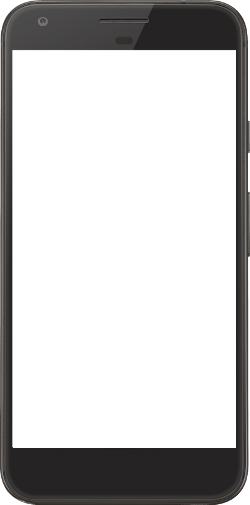
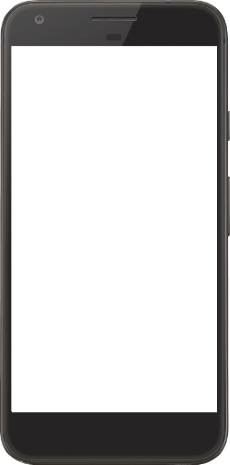
Added a bunch of content.

Changed region(s): [[0.9435, 0.0602, 1.0, 0.8731], [0.9739, 0.9333, 1.0, 0.9634], [0.8826, 0.9935, 0.913, 1.0]]

diff --git a/ping-servers/index_contents.html b/ping-servers/index_contents.html
@@ -3,7 +3,7 @@
 		<img class="img-responsive" alt="Ping Servers Graphic" src="/assets/img/ping-servers/feature_graphic.png">
 	</div>
 	<div class="title">
-		<h1>Ping Servers </h1>
+		<h1>Ping Servers</h1>
 	</div>
 	<div class="subtitle">
 		<h4>Receive instant notifications when websites or servers are unreachable</h4>
@@ -12,14 +12,14 @@
 		<img class="img-responsive" alt="Ping Servers Icon" src="/assets/img/ping-servers/icon.png">
 	</div>
 	<div class="links">
-		<a href="https://play.google.com/store/apps/details?id=com.play2think.ping-servers">Download now</a>
+		<a target="_blank" href="https://play.google.com/store/apps/details?id=com.brohkahn.pingserver"><h4>Download now</h4></a>
 	</div>
 </div>
 
 <div id="description">
 	<div class="row description-group">
 		<div class="col-sm-8 col-sm-offset-2">
-			<p>Ping Server is a mobile application that periodically "pings" servers to determine whether they are reachable by your device. Whenever a ping fails, you will be notified instantly on your device so you can act upon the situation as you see fit! Forget worrying about whether your site is online, just set up a ping on Ping Server and let your Android device do your worrying for you.</p>
+			<p>Ping Servers is a mobile application that periodically "pings" servers to determine whether they are reachable by your device. Whenever a ping fails, you will be notified instantly on your device so you can act upon the situation as you see fit! Forget worrying about whether your site is online, just set up a ping on Ping Server and let your Android device do your worrying for you.</p>
 		</div>
 	</div>
 	<div class="row description-group">
@@ -29,13 +29,48 @@
 			</div>
 		</div>
 		<div class="col-sm-8">
+			<h2>SCHEDULES</h2>
+			<p>Choose between a variety of settings to use for pinging your servers. Using Android's built in scheduler, Ping Servers can automatically query your servers whenever the device wakes up after the provided ping interval. If your device is on a later version of Android (6.0+), you can tell Ping Servers to "use strict alarms", which will turn off battery optimazion for the applciation and force the device to wake up and check your servers at the frequency of your choosing. You can also disable Ping Servers at certains times of the day, so you can prevent your phone from blaring at work or while you're sleeping.</p>
+		</div>
+	</div>
+
+	<div class="row description-group">
+		<div class="col-sm-8">
+			<h2>PING FUNCTIONALITY</h2>
+			<p>We have implemented 2 differents methods of making sure your servers are up and running: <i>URL.openConnection()</i> and <i>InetAddress.getByName()</i>. Ping Servers requires both of these functions to succeed, or the ping will fail. If a ping fails, the service will automatically retry the ping after a given interval. By default, the service will run 3 retries at intervals of 1 second. If the app if unable to ping any of your servers after the given number of retires, you will instantly get a notification. </p>
+		</div>
+		<div class="col-sm-4">
+			<div class="android-mobile-screenshot screenshot">
+				<img src="/assets/img/ping-servers/screenshots/2.jpg" alt="Screenshot 2">
+			</div>
+		</div>
+	</div>
+
+	<div class="row description-group">
+		<div class="col-sm-4">
+			<div class="android-mobile-screenshot screenshot">
+				<img src="/assets/img/ping-servers/screenshots/3.jpg" alt="Screenshot 3">
+			</div>
+		</div>
+		<div class="col-sm-8">
 			<h2>OPTIONS</h2>
 			<p>Every one of Omega's features/elements is completely optional and can be modified to your liking, here is what you can do to each element individually</p>
 			<ul>
 				<li>Server timeout in seconds</li>
-				<li>Ping frequency in minutes (note: this is not 100% accurate as different devices monitor background activities in their own manner, sometimes delaying background executions. If your ping schedule is not accurate according to the frequency you selected, change the frequency by about 20%.)</li>
+				<li>Ping frequency in minutes
+					<ul>
+						<li>This is not 100% accurate as different devices monitor background activities in their own manner, sometimes delaying background executions</li>
+						<li>If your ping schedule is not accurate according to the frequency you selected, change the frequency by about 20%</li>
+					</ul>
+				</li>
 				<li>Retries before failure notification</li>
 				<li>Delay before each retry (in seconds) if server is reachable</li>
+				<li>Ability to notify of subsequent failures
+					<ul>
+						<li>Ping Servers will only send you one notification per fail event</li>
+						<li>If a server continues to stay down, Ping Servers will not notify you</li>
+					</ul>
+				</li>
 			</ul>
 		</div>
 	</div>
@@ -49,9 +84,9 @@
 </div>
 
 <div class="links" id="bottom-links">
-	<h4>Download RSS Wallpaper for free (Android)</h4>
+	<h4>Download Ping Servers for free (Android)</h4>
 	<div class="badge-container">
-		<a target="_blank" href="https://play.google.com/store/apps/details?id=com.brohkahn.rsswallpaper">
+		<a target="_blank" href="https://play.google.com/store/apps/details?id=com.brohkahn.pingserver">
 			<img alt="Get it on Google Play" src="/assets/img/en_generic_rgb_wo_45.png" />
 		</a>
 

diff --git a/prezcon/index_contents.html b/prezcon/index_contents.html
@@ -12,12 +12,56 @@
 		<img class="img-responsive" alt="Prezcon Icon" src="/assets/img/prezcon/icon.png">
 	</div>
 	<div class="links">
-		<a href="https://play.google.com/store/apps/details?id=com.prezcon.prezcon">Download now</a>
+		<a href="https://play.google.com/store/apps/details?id=com.prezcon.prezcon"><h4>Download now</h4></a>
 	</div>
 </div>
 
 <div id="description">
 
+	<div class="row description-group">
+		<div class="col-sm-4">
+			<div class="android-mobile-screenshot screenshot">
+				<img src="/assets/img/prezcon/screenshots/2.png" alt="Screenshot 2">
+			</div>
+		</div>
+		<div class="col-sm-8">
+			<h2>PERSONAL SCHEDULE</h2>
+			<p>Use the Prezcon app to star events and save them to your personal schedule. In the “Starred” view, you can view your entire personal schedule on a day by day basis. In the full “Schedule” view, you can view your started schedule along with the entire Prezcon schedule, however your events will appear under each hour of the convention they fall into. By collapsing the event list for each hour, the headers will display your schedule on an hourly basis.</p>
+		</div>
+	</div>
+	<div class="row description-group">
+		<div class="col-sm-8">
+			<h2>CUSTOM EVENTS</h2>
+			<p>Create your own events add to your schedule. Just add a name, time, location, and which days of the convention your event will occur. You can also use the schedule sharing feature to export your custom events, along with your full personal schedule, and share them with your friends, coworkers, or other devices.</p>
+		</div>
+		<div class="col-sm-4">
+			<div class="android-mobile-screenshot screenshot">
+				<img src="/assets/img/prezcon/screenshots/1.png" alt="Screenshot 1">
+			</div>
+		</div>
+	</div>
+	<div class="row description-group">
+		<div class="col-sm-4">
+			<div class="android-mobile-screenshot screenshot">
+				<img src="/assets/img/prezcon/screenshots/4.png" alt="Screenshot 4">
+			</div>
+		</div>
+		<div class="col-sm-8">
+			<h2>NOTIFICATIONS</h2>
+			<p>The Prezcon app will notify you when your starred events are about to start. By default, the notification interval is 5 minutes, which ought to be enough time to reach any room in the hotel. Those of you whose room is more of a walk need not fear, for the application allows you to set your own notification time to anything from minute to an hour.</p>
+		</div>
+	</div>
+	<div class="row description-group">
+		<div class="col-sm-8">
+			<h2>MAP</h2>
+			<p>Use the hotel map built into Prezcon to ensure your never get lost among the hysteria of the convention.  Prezcon has a large variety of events, so some events are in rooms so small their name does not fit in the map. But if you select an event from the schedule, the room for your event will flash on the map so you can see the events location and know where to go.</p>
+		</div>
+		<div class="col-sm-4">
+			<div class="android-mobile-screenshot screenshot">
+				<img src="/assets/img/prezcon/screenshots/3.png" alt="Screenshot 3">
+			</div>
+		</div>
+	</div>
 	<div class="row description-group">
 		<div class="col-sm-4">
 			<div class="android-mobile-screenshot screenshot">
@@ -31,7 +75,7 @@
 				<li>View entire Prezcon schedule by day and hour</li>
 				<li>View schedule of individual tournament</li>
 				<li>Find rooms on hotel map</li>
-				<li>Create personalized schedule for your week at the Prezcon Winter Nationals</li>
+				<li>Create personalized schedule for your week at Prezcon</li>
 				<li>Add events to your individual schedule</li>
 				<li>Filter tournaments and non-tournaments out of your schedule</li>
 				<li>Edit and view all your tournament finishes</li>
@@ -42,7 +86,7 @@
 </div>
 
 <div class="links" id="bottom-links">
-	<h4>Download WBC for free</h4>
+	<h4>Download Prezcon for free</h4>
 	<div class="badge-container">
 		<a target="_blank" href="https://play.google.com/store/apps/details?id=com.prezcon.prezcon">
 			<img alt="Get it on Google Play" src="/assets/img/en_generic_rgb_wo_45.png" />

diff --git a/wbc/index_contents.html b/wbc/index_contents.html
@@ -12,7 +12,7 @@
 		<img class="img-responsive" alt="WBC Icon" src="/assets/img/wbc/icon.png">
 	</div>
 	<div class="links">
-		<a href="https://play.google.com/store/apps/details?id=org.boardgamers.wbc">Download now</a>
+		<a href="https://play.google.com/store/apps/details?id=org.boardgamers.wbc"><h4>Download now</h4></a>
 	</div>
 </div>
 
@@ -20,6 +20,50 @@
 	<div class="row description-group">
 		<div class="col-sm-8 col-sm-offset-2">
 			<p class="indented">This is the official app of the World Boardgaming Championships, the largest event presented by the Boardgame Players Association (BPA). From August 3-9, 2015, join us at the Lancaster Host Resort in Lancaster, PA, USA for a week of various board game tournaments, auctions, and vending. Board gamers, players, collectors, and game enthusiasts of all ages and experience levels are welcome. Visit <a target="_blank" href="http://boardgamers.org/landing.shtml">the WBC web site</a> for more info.</p>
+		</div>
+	</div>
+	<div class="row description-group">
+		<div class="col-sm-4">
+			<div class="android-mobile-screenshot screenshot">
+				<img src="/assets/img/wbc/screenshots/2.png" alt="Screenshot 2">
+			</div>
+		</div>
+		<div class="col-sm-8">
+			<h2>PERSONAL SCHEDULE</h2>
+			<p>Use the WBC app to star events and save them to your personal schedule. In the “Starred” view, you can view your entire personal schedule on a day by day basis. In the full “Schedule” view, you can view your started schedule along with the entire WBC schedule, however your events will appear under each hour of the convention they fall into. By collapsing the event list for each hour, the headers will display your schedule on an hourly basis.</p>
+		</div>
+	</div>
+	<div class="row description-group">
+		<div class="col-sm-8">
+			<h2>CUSTOM EVENTS</h2>
+			<p>Create your own events add to your schedule. Just add a name, time, location, and which days of the convention your event will occur. You can also use the schedule sharing feature to export your custom events, along with your full personal schedule, and share them with your friends, coworkers, or other devices.</p>
+		</div>
+		<div class="col-sm-4">
+			<div class="android-mobile-screenshot screenshot">
+				<img src="/assets/img/wbc/screenshots/1.png" alt="Screenshot 1">
+			</div>
+		</div>
+	</div>
+	<div class="row description-group">
+		<div class="col-sm-4">
+			<div class="android-mobile-screenshot screenshot">
+				<img src="/assets/img/wbc/screenshots/4.png" alt="Screenshot 4">
+			</div>
+		</div>
+		<div class="col-sm-8">
+			<h2>NOTIFICATIONS</h2>
+			<p>The WBC app will notify you when your starred events are about to start. By default, the notification interval is 5 minutes, which ought to be enough time to reach any room in the hotel. Those of you whose room is more of a walk need not fear, for the application allows you to set your own notification time to anything from minute to an hour.</p>
+		</div>
+	</div>
+	<div class="row description-group">
+		<div class="col-sm-8">
+			<h2>MAP</h2>
+			<p>Use the hotel map built into WBC to ensure your never get lost among the hysteria of the convention.  WBC has a large variety of events, so some events are in rooms so small their name does not fit in the map. But if you select an event from the schedule, the room for your event will flash on the map so you can see the events location and know where to go.</p>
+		</div>
+		<div class="col-sm-4">
+			<div class="android-mobile-screenshot screenshot">
+				<img src="/assets/img/wbc/screenshots/3.png" alt="Screenshot 3">
+			</div>
 		</div>
 	</div>
 	<div class="row description-group">

diff --git a/assets/css/main.css b/assets/css/main.css
@@ -19,7 +19,7 @@
 */
 
 html {background: white}
-body {background: linear-gradient(#b6c3e2, #fff);}
+body {background-color: #edf0f8;}
 div, ul, li, a {box-sizing: border-box;}
 img {max-width: 100%;}
 
@@ -53,7 +53,8 @@ a:visited,
 a:link {font-family: verdana, sans-serif;}
 a,
 a:visited,
-a:link {color: #997c40;}
+a:link,
+a h4 {color: #997c40; font-weight: bold;}
 
 
 
@@ -111,7 +112,7 @@ p {line-height: 1.4em; margin-bottom: 1em}
 .navigation-links.fixed {position: fixed; top: 0; z-index: 12;}
 
 
-#headers {text-align: center; margin-top: 50px;}
+#headers {text-align: center; padding-top: 50px;}
 #headers #feature-graphic,
 #headers #feature-graphic img {width: 100%;}
 #headers .title {margin: 100px 0 15px;}
@@ -134,11 +135,11 @@ p {line-height: 1.4em; margin-bottom: 1em}
 #description .screenshot {margin: 0 auto;position: relative;}
 #description .screenshot img {position: absolute;}
 
-#description .screenshot.android-wear-screenshot {background: url("../img/android-wear-background.png"); width: 250px; height: 350px; }
-#description .screenshot.android-wear-screenshot img { width: 230px; height: 230px; top: 60px; left: 10px;}
+#description .screenshot.android-wear-screenshot {background-image:  url("../img/android-wear-background.png"); width: 230px; height: 322px; }
+#description .screenshot.android-wear-screenshot img { width: 210px; height: 210px; top: 57px; left: 10px;}
 
-#description .screenshot.android-mobile-screenshot {background: url("../img/android-pixel-background.png"); width: 250px; height: 505px; }
-#description .screenshot.android-mobile-screenshot img { width: 224px; height: 398px; top: 50px; left: 12px;}
+#description .screenshot.android-mobile-screenshot {background-image: url("../img/android-pixel-background.png"); width: 230px; height: 465px; }
+#description .screenshot.android-mobile-screenshot img { width: 206px; height: 367px; top: 46px; left: 11px;}
 
 
 #bottom-links {margin: 75px auto 50px; text-align: center;}

diff --git a/website/index_contents.html b/website/index_contents.html
@@ -1,6 +1,6 @@
 <div id="headers">
 	<div class="title">
-		<h1>kevin.broh-kahn.com</h1>
+		<h1>This website</h1>
 	</div>
 	<div class="subtitle">
 		<h4>A site for displaying all of the projects and applications I have created</h4>
@@ -9,7 +9,7 @@
 		<img class="img-responsive" alt="Alenoi Icon" src="/assets/img/kevin.broh-kahn.com/icon.png">
 	</div>
 	<div class="links">
-		<a href="http://kevin.broh-kahn.com">Browse</a>
+		<a href="http://kevin.broh-kahn.com"><h4>Browse</h4></a>
 	</div>
 </div>
 
@@ -25,7 +25,9 @@
 <div class="links" id="bottom-links">
 	<h4>Browse now</h4>
 	<div class="badge-container">
-		<a href="http://kevin.broh-kahn.com">http://kevin.broh-kahn.com</a>
+		<a href="http://kevin.broh-kahn.com">
+			<img alt="Browse on kevin.broh-kahn.com" src="/assets/img/kevin.broh-kahn.com/icon.png">
+		</a>
 	</div>
 
 	<h4>View source</h4>

diff --git a/sixsided/index_contents.html b/sixsided/index_contents.html
@@ -9,7 +9,7 @@
 		<img class="img-responsive" alt="Alenoi Icon" src="/assets/img/sixsided.com/icon.png">
 	</div>
 	<div class="links">
-		<a href="http://sixsided.com">Browse</a>
+		<a href="http://sixsided.com"><h4>Browse</h4></a>
 	</div>
 </div>
 
@@ -25,7 +25,9 @@
 <div class="links" id="bottom-links">
 	<h4>Browse now</h4>
 	<div class="badge-container">
-		<a href="http://sixsided.com">http://sixsided.com</a>
+		<a target="_blank" href="http://sixsided.com">
+			<img alt="Browse on sixsided.com" src="/assets/img/sixsided/icon.png">
+		</a>
 	</div>
 
 	<h4>View source</h4>

diff --git a/index_contents.html b/index_contents.html
@@ -262,7 +262,7 @@
 		</div>
 		<div class="col-sm-6 col-md-4 col-lg-3">
 			<div class="project kevin.broh-kahn.com">
-				<a class="project-link" href="kevin.broh-kahn.com">
+				<a class="project-link" href="website">
 					<div class="project-icon">
 						<img alt="Alenoi Watch Face" src="/assets/img/kevin.broh-kahn.com/icon.png"> 
 					</div>
@@ -281,8 +281,4 @@
 
 
 
-
-
-
 <script src="/assets/js/circuit-background-script.js" type="text/javascript"></script>
-<script src="/assets/js/index.js" type="text/javascript"></script>

diff --git a/charging-wear/index_contents.html b/charging-wear/index_contents.html
@@ -12,7 +12,7 @@
 		<img class="img-responsive" alt="Alenoi Icon" src="/assets/img/charging_wear/icon.png">
 	</div>
 	<div class="links">
-		<a href="https://play.google.com/store/apps/details?id=com.bkmobiledevelopment.chargingwear">Download now</a>
+		<a href="https://play.google.com/store/apps/details?id=com.bkmobiledevelopment.chargingwear"><h4>Download now</h4></a>
 	</div>
 </div>
 

diff --git a/rss-wallpaper/index_contents.html b/rss-wallpaper/index_contents.html
@@ -12,7 +12,7 @@
 		<img class="img-responsive" alt="RSS Wallpaper Icon" src="/assets/img/rss-wallpaper/icon.png">
 	</div>
 	<div class="links">
-		<a href="https://play.google.com/store/apps/details?id=com.play2think.rss-wallpaper">Download now</a>
+		<a href="https://play.google.com/store/apps/details?id=com.play2think.rss-wallpaper"><h4>Download now</h4></a>
 	</div>
 </div>
 

diff --git a/alenoi/index_contents.html b/alenoi/index_contents.html
@@ -12,7 +12,7 @@
 		<img class="img-responsive" alt="Alenoi Icon" src="/assets/img/alenoi/icon.png">
 	</div>
 	<div class="links">
-		<a href="https://play.google.com/store/apps/details?id=com.brohkahn.alenoiwatchface">Download now</a>
+		<a href="https://play.google.com/store/apps/details?id=com.brohkahn.alenoiwatchface"><h4>Download now</h4></a>
 	</div>
 </div>
 

diff --git a/music-home/index_contents.html b/music-home/index_contents.html
@@ -12,7 +12,7 @@
 		<img class="img-responsive" alt="Music Home Icon" src="/assets/img/music_home/icon.png">
 	</div>
 	<div class="links">
-		<a href="https://play.google.com/store/apps/details?id=com.acrilogic.musichome">Download now</a>
+		<a href="https://play.google.com/store/apps/details?id=com.acrilogic.musichome"><h4>Download now</h4></a>
 	</div>
 </div>
 

diff --git a/notro/index_contents.html b/notro/index_contents.html
@@ -12,7 +12,7 @@
 		<img class="img-responsive" alt="Notro Icon" src="/assets/img/notro/icon.png">
 	</div>
 	<div class="links">
-		<a href="https://play.google.com/store/apps/details?id=com.brohkahn.notrowatchface">Download now</a>
+		<a href="https://play.google.com/store/apps/details?id=com.brohkahn.notrowatchface"><h4>Download now</h4></a>
 	</div>
 </div>
 
